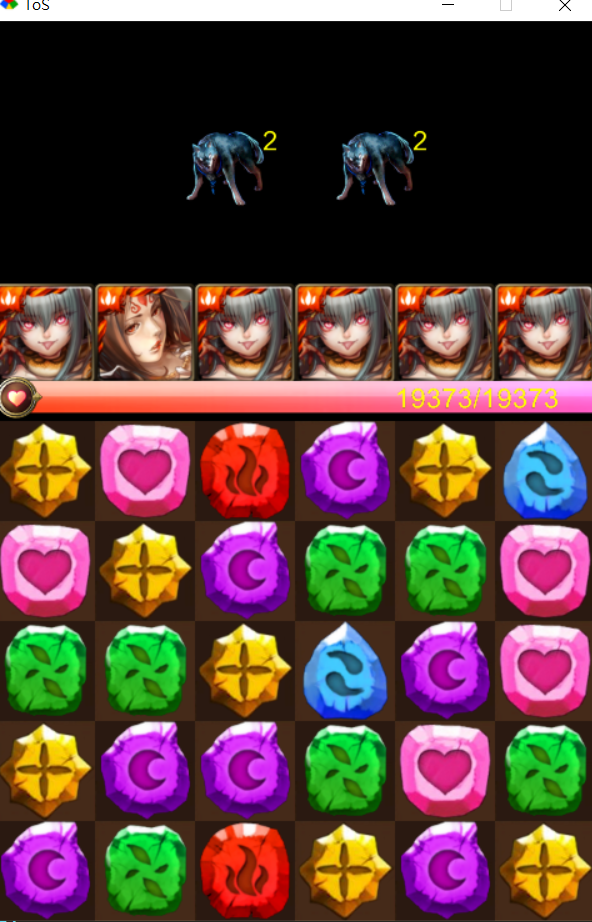
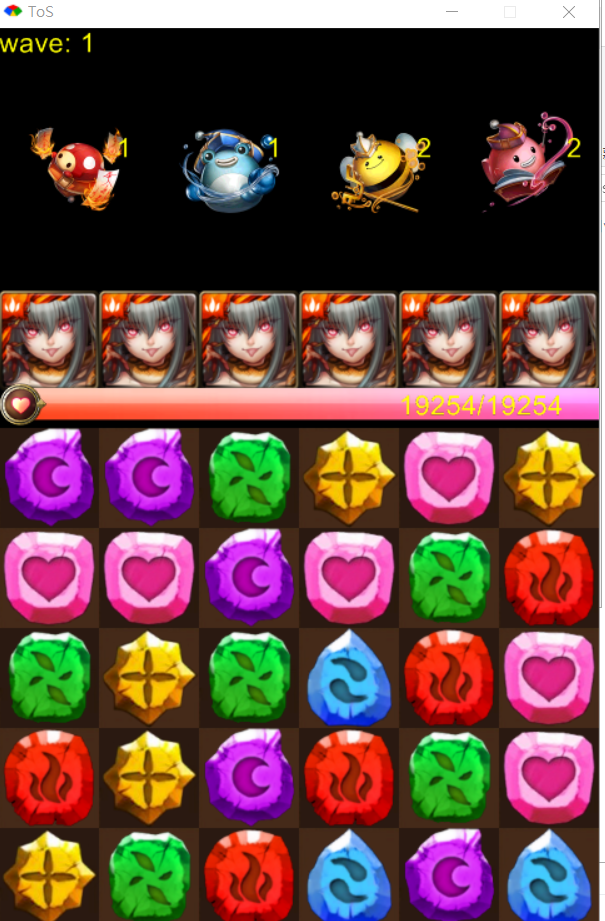
basic battle cycle work

diff --git a/floor.rb b/floor.rb
@@ -14,6 +14,13 @@ class Enemy < Image
 	def die?
 		@hp <= 0
 	end
+	def take_damage(damage)
+		if damage <= @dfs
+			@hp -= 1
+		else 
+			@hp -= (damage-@dfs)
+		end
+	end
 	def dec
 		@cd -= 1 if @cd != 0
 	end
@@ -35,14 +42,32 @@ class Floor
 		@turn = 0
 		@enemys = []
 		@floor = 0
+		@font = Gosu::Font.new(25)
 		generate_enemys
 	end
 
-	def clear?
+	def all_clear?
 		@floor == @waves
+	end
+	def wave_claer?
+		@enemys.empty?
 	end
 	def next_wave
 		@floor += 1
+		!all_clear? and generate_enemys
+	end
+	def take_damage(damages)
+		print "damages: "
+		p damages
+		targetId = 0
+		damages.each do |d|
+			if targetId == @enemys.length
+				@enemys[0].take_damage(d)
+			else 
+				@enemys[targetId].take_damage(d)
+				targetId += 1 if @enemys[targetId].die?
+			end
+		end
 	end
 	def damage
 		result = []
@@ -52,7 +77,6 @@ class Floor
 				e.cd_reset
 			end
 		}
-		puts "floor#damage -> enemys damage stack #{result}"
 		return result
 	end
 	def cd_countdown
@@ -60,13 +84,32 @@ class Floor
 	end
 	def update
 		@enemys.delete_if(&:die?)
+		cd_countdown
+		wave_claer? and next_wave
 	end
 	def draw_enemys
 		@enemys.each(&:draw)
 	end
+	def draw_wave
+		@font.draw_text("wave: #{@floor+1}",0,0,1,1.0,1.0,Gosu::Color::YELLOW)
+	end
 	private
+	
 	def generate_enemys
 		case FLOOR_DATA::FLOOR[@id][:setting][@floor]
+		when "random1"
+			x,y = 180,20
+			enemys = []
+			enemys << FLOOR_DATA::FLOOR[@id][:waves][@floor].sample
+			enemys.each do |d|
+				id = d[:monsterId]
+				atk,hp,dfs, = d[:atk],d[:hp],d[:dfs]
+				cd,duration = d[:CD],d[:duration]
+				characteristic = d[:characteristic]
+				@enemys << Enemy.new(x,y,id,atk,hp,dfs,cd,duration,characteristic)
+				@enemys[-1].set(x-50,-80) if @enemys[-1].h == 512
+				x += 120
+			end		
 		when "random2"
 			x,y = 120,20
 			enemys = []
@@ -77,6 +120,7 @@ class Floor
 				cd,duration = d[:CD],d[:duration]
 				characteristic = d[:characteristic]
 				@enemys << Enemy.new(x,y,id,atk,hp,dfs,cd,duration,characteristic)
+				@enemys[-1].set(x-50,-80) if @enemys[-1].h == 512
 				x += 120
 			end
 		when "random3"
@@ -89,16 +133,20 @@ class Floor
 				cd,duration = d[:CD],d[:duration]
 				characteristic = d[:characteristic]
 				@enemys << Enemy.new(x,y,id,atk,hp,dfs,cd,duration,characteristic)
+				@enemys[-1].set(x-50,-80) if @enemys[-1].h == 512
 				x += 120
 			end
-		when "all"
-			x,y = 40,20
+		else
+			length = FLOOR_DATA::FLOOR[@id][:waves][@floor].length
+			x,y = 60*(4-length),20
+			
 			FLOOR_DATA::FLOOR[@id][:waves][@floor].each do |d|
 				id = d[:monsterId]
 				atk,hp,dfs, = d[:atk],d[:hp],d[:dfs]
 				cd,duration = d[:CD],d[:duration]
 				characteristic = d[:characteristic]
 				@enemys << Enemy.new(x,y,id,atk,hp,dfs,cd,duration,characteristic)
+				@enemys[-1].set(x-50,-80) if @enemys[-1].h == 512
 				x += 120
 			end
 		end
@@ -107,12 +155,24 @@ end
 
 module FLOOR_DATA
   FLOOR = {
+		"遠洋的王者" => {
+			name: "符靈之主 地獄級",
+			setting: ["x", "x", "random1", "x", "x"],
+			waves: [
+				[{monsterId: 444, atk: 6877, CD: 1, duration: 1, hp: 18994, dfs: 10, characteristic: 100},{monsterId: 443, atk: 6041, CD: 1, duration: 1, hp: 39708, dfs: 40, characteristic: 150},{monsterId: 446, atk: 6221, CD: 2, duration: 2, hp: 29014, dfs: 30, characteristic: 50},{monsterId: 447, atk: 6356, CD: 2, duration: 2, hp: 61953, dfs: 60, characteristic: 123}],
+				[{monsterId: 137, atk: 4727, CD: 2, duration: 2, hp: 233936, dfs: 40, characteristic: 30},{monsterId: 140, atk: 4954, CD: 2, duration: 2, hp: 234159, dfs: 39, characteristic: 32},{monsterId: 131, atk: 4725, CD: 2, duration: 2, hp: 233823, dfs: 40, characteristic: 134}],
+				[{monsterId: 133, atk: 6270, CD: 1, duration: 1, hp: 640735, dfs: 606, characteristic: 1},{monsterId: 136, atk: 6690, CD: 1, duration: 1, hp: 629985, dfs: 594, characteristic: 1},{monsterId: 139, atk: 6273, CD: 1, duration: 1, hp: 643423, dfs: 600, characteristic: 1},{monsterId: 142, atk: 6687, CD: 1, duration: 1, hp: 646611, dfs: 579, characteristic: 1},{monsterId: 145, atk: 6690, CD: 1, duration: 1, hp: 640735, dfs: 582, characteristic: 1}],
+				[{monsterId: 439, atk: 10644, CD: 2, duration: 2, hp: 473500, dfs: 240, characteristic: 309},{monsterId: 442, atk: 9680, CD: 1, duration: 1, hp: 462800, dfs: 5250, characteristic: 147}],
+				[{monsterId: 448, atk: 10520, CD: 1, duration: 1, hp: 2058000, dfs: 9800, characteristic: 75}]
+			]
+		},
 		2 => {
 		name: "日蝕之子 地獄級",
-		setting: ["random2", "random3", "all", "all", "random3", "all"],
+		setting: ["random2", "random3", "x", "x", "random3", "x"],
 		waves: [
 			[{monsterId: 106, atk: 6831, CD: 2, duration: 2, hp: 15, dfs: 20, characteristic: 0},{monsterId: 108, atk: 7624, CD: 2, duration: 2, hp: 12, dfs: 20, characteristic: 0},{monsterId: 110, atk: 7063, CD: 2, duration: 2, hp: 15, dfs: 20, characteristic: 0}],
 			[{monsterId: 106, atk: 6831, CD: 2, duration: 2, hp: 15, dfs: 20, characteristic: 0},{monsterId: 108, atk: 7624, CD: 2, duration: 2, hp: 12, dfs: 20, characteristic: 0},{monsterId: 110, atk: 7063, CD: 2, duration: 2, hp: 15, dfs: 20, characteristic: 0}],
+			[{monsterId: 113, atk: 8314, CD: 2, duration: 2, hp: 8, dfs: 39, characteristic: 57},{monsterId: 115, atk: 8579, CD: 2, duration: 2, hp: 9, dfs: 39, characteristic: 57}],
 		]},
  }
 

diff --git a/tos.rb b/tos.rb
@@ -14,10 +14,12 @@ class BATTLE_STATE
     state :moveing,:deleting,:dropping,:checking,:attacking,:first_checking
 		state :first_deleting, :first_dropping
 		state :enemy_attacking
+		state :ending
 		
 		event :first_delete do; transitions from: :moveing, to: :first_deleting; end
 		event :first_drop do; transitions from: :first_deleting, to: :first_dropping; end
 		event :enemy_attack do; transitions from: :attacking, to: :enemy_attacking; end
+		event :end do; transitions from: :normal, to: :ending; end
 		
 		event :move do
 			transitions from: :normal, to: :moveing
@@ -57,10 +59,13 @@ class Game < Gosu::Window
 		#super 1200,720
 		self.caption = "ToS"
 		@board = Board.new
-		@team = Team.new([1239,1224,1239,1239,1239,1239])
+		@team = Team.new([1239,1239,1239,1239,1239,1239])
 		@timebar = Timebar.new(@team.maxLife)
 		@state = BATTLE_STATE.new
-		@floor = Floor.new(2)
+		@floor = Floor.new("遠洋的王者")
+		#@floor = Floor.new(2)
+		
+		@board.x_possess_y("_f","_h")
 		
 		@debug = Gosu::Font.new(25)
 		
@@ -78,6 +83,7 @@ class Game < Gosu::Window
 		if button_down?(Gosu::MS_LEFT) and @state.may_move?
 			if @board.stone?(mx,my)
 				@board.reset_combo_counter
+				@team.reset
 				@board.drag(mx,my)
 				@board.swap(mx,my) and @state.move
 			end
@@ -118,17 +124,18 @@ class Game < Gosu::Window
 			end
 		end
 		if @state.checking?
-			#if @board.explode_h
-			#	@state.drop and @board.search_dropping
-			#else
+			if @board.explode_h
+				@state.drop and @board.search_dropping
+			else
 				@state.attack
-			#end
+			end
 		end
 		
 		# 計算傷害
 		if @state.attacking?
 			@team.charge
 			@team.recovery
+			@floor.take_damage(@team.damage)
 			@state.enemy_attack
 		end
 		
@@ -137,17 +144,18 @@ class Game < Gosu::Window
 		end
 		
 		if @state.enemy_attacking?
-			@floor.cd_countdown
+			@floor.update
 			@team.take_damage(@floor.damage)
-			
+
 			@state.back
 		end
+		
+		@floor.all_clear? and @state.may_end? and @state.end
 		
 		!button_down?(Gosu::MS_LEFT) || @state.deleting? and @board.reset	
 		
 		!@state.moveing? and !@state.normal? and !@state.dropping? and calculate_atk & calculate_re
 		@timebar.update_life(@team.currLife)
-		@floor.update
 		# test
 		button_down?(Gosu::KB_Q) and @board.new
 		button_down?(Gosu::KB_R) and @state.back
@@ -160,6 +168,7 @@ class Game < Gosu::Window
 		@board.draw
 		
 		@floor.draw_enemys
+		@floor.draw_wave
 		
 		@team.draw_icon
 		@state.normal? and @team.monster?(mx,my) and @team.draw_skill(@team.index(mx,my))
@@ -170,6 +179,8 @@ class Game < Gosu::Window
 		!@state.moveing? and @timebar.draw_lifebar
 		@state.moveing? and @timebar.draw_timebar
 		
+		
+		@state.ending? and @debug.draw_text("all clear", 200, 100, 2, 1.0, 1.0, Gosu::Color::WHITE)
 		
 		#@debug.draw_text("#{mx} , #{my}", 0, 0, 2, 1.0, 1.0, Gosu::Color::WHITE)
 

diff --git a/board.rb b/board.rb
@@ -31,12 +31,19 @@ class Board
 			"_w_set"=>0,"_f_set"=>0,"_e_set"=>0,"_l_set"=>0,"_d_set"=>0,"_h_set"=>0
 		}
 		
+		@possessHash = {}
+		
 		init
 	end
 	def record; @record; end
 	
-	def x_possess_y(x,y,prob=1.0)
-		puts "#{x}屬性兼具#{y}屬性#{prob*100}%"
+	def x_possess_y(x, y, prob=1.0)
+		if @possessHash.has_key?(y)
+			@possessHash[y] = @possessHash[y] << x
+		else
+			@possessHash[y] = [x]
+		end
+		#puts "#{x}屬性兼具#{y}屬性#{prob*100}%"
 	end
 	def dissolving_3_types?; dissolving_types == 3; end
 	def dissolving_types
@@ -58,7 +65,10 @@ class Board
 	def calculate_atk(attr)
 		comboMagn = 1 + (@combocounter-1)*@comboMagn
 		stoneMagn = @record[attr]*0.25 + @record[attr+"_en"]*0.4 + @record[attr+"_set"]*0.25
-		return comboMagn*stoneMagn
+		if @possessHash.has_key?(attr)
+			@possessHash[attr].each {|a| stoneMagn += @record[a]*0.25 + @record[a+"_en"]*0.4 + @record[a+"_set"]*0.25}
+		end
+		return comboMagn * stoneMagn
 	end
 
 	def drop_d_en
@@ -94,15 +104,9 @@ class Board
 	end
 	def all_transform
 		prob = ["_w","_f","_e","_f","_h"]
-		@stones.each do |stone|
-			attr = prob.sample
-			case attr
-				when "_w"; stone.transform_to_w
-				when "_f"; stone.transform_to_f
-				when "_e"; stone.transform_to_e
-				when "_h"; stone.transform_to_h
-			end
-			stone.update_img
+		@stones.each do |s|
+			s.transform_to_x(prob.sample)
+			s.update_img
 		end
 		return true
 	end
@@ -160,7 +164,7 @@ class Board
 	
 	def delete_combos(currtime)
 		if @temptime < currtime
-			@temptime = currtime+@deletspeed
+			@temptime = currtime + @deletspeed
 			delete
 		end
 	end

diff --git a/team.rb b/team.rb
@@ -11,7 +11,6 @@ module DATA
 end
 
 class Monster < Image
-	include DATA
 	def initialize(id,order)
 		@id = id
 		@order = order
@@ -21,8 +20,10 @@ class Monster < Image
 		@font = Gosu::Font.new(25)
 		@sx,@sy = 50,350
 		
+		@atkAttr = DATA::MONSTER[@id][:attr]
 		@num = DATA::AS[@id][:num]
 		@description = DATA::AS[@id][:description]
+		
 		@currAtk = 0.0
 		@currRe = 0.0
 		
@@ -50,7 +51,7 @@ class Monster < Image
 	end
 	def draw_atk
 		if @currAtk != 0
-			color = atk_font_color(attr)
+			color = atk_font_color(atkAttr)
 			@font.draw_text("#{@currAtk}",@x+5,@y+25,3,1.0,1.0,color)
 		end
 	end
@@ -60,12 +61,17 @@ class Monster < Image
 	def update_re(re)
 		@currRe = re
 	end
+	def reset
+		@currAtk,@currRe = 0,0
+	end
 	def attr; DATA::MONSTER[@id][:attr]; end
+	def atkAttr; @atkAttr; end
 	def race; DATA::MONSTER[@id][:race]; end
 	def hp; DATA::MONSTER[@id][:hp]; end
 	def atk; DATA::MONSTER[@id][:atk]; end
 	def re; DATA::MONSTER[@id][:re]; end
 	def currRe; @currRe; end
+	def currAtk; @currAtk; end
 	def id; @id; end
 	def num; @num; end
 
@@ -140,10 +146,8 @@ class Team
 	def active(i)
 		@monsters[i].active if @monsters.at(i) != nil
 	end
-	def damage_delay(currtime)
-		if @temptime < currtime
-			@temptime = currtime + @damagespeed
-		end
+	def reset
+		@monsters.each(&:reset)
 	end
 	
 	def recovery
@@ -153,6 +157,12 @@ class Team
 	def total_re
 		result = 0
 		@monsters.each {|m| result += m.currRe}
+		return result
+	end
+	
+	def damage
+		result = []
+		@monsters.each {|m| result << m.currAtk}
 		return result
 	end
 	

diff --git a/stone.rb b/stone.rb
@@ -64,6 +64,7 @@ class Stone < Image
 	def transform_to_l; @attr = "_l"; end
 	def transform_to_d; @attr = "_d"; end
 	def transform_to_h; @attr = "_h"; end
+	def transform_to_x(attr); @attr = attr; end
 	def transform_to_random; @attr = @attrlist.sample; end
 	#def transform_to_random_for(attrList); @attr = attrList.sample; end
 	

diff --git a/timebar.rb b/timebar.rb
@@ -36,7 +36,9 @@ class Timebar
 		@clock.draw(@inonscale,@inonscale)
 	end
 	def draw_re(totalRe)
-		@font.draw_text("+#{totalRe}",200,290,2,1.0,1.0,Gosu::Color::YELLOW)
+		if totalRe != 0
+			@font.draw_text("+#{totalRe}",200,285,2,1.0,1.0,Gosu::Color.argb(0xff_1AFD9C))
+		end
 	end
 	
 	def countdown(currtime)
